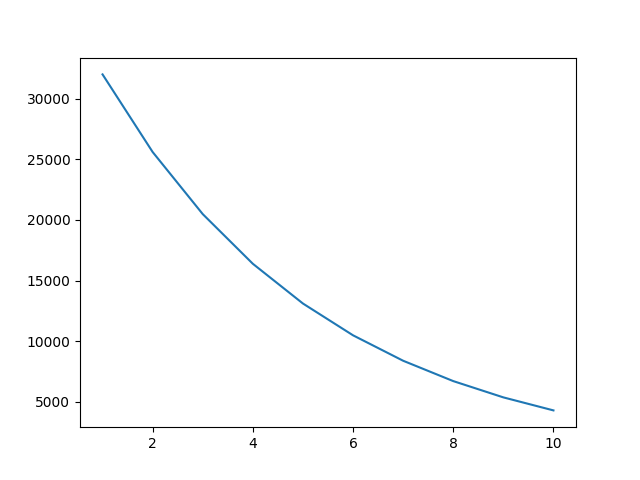
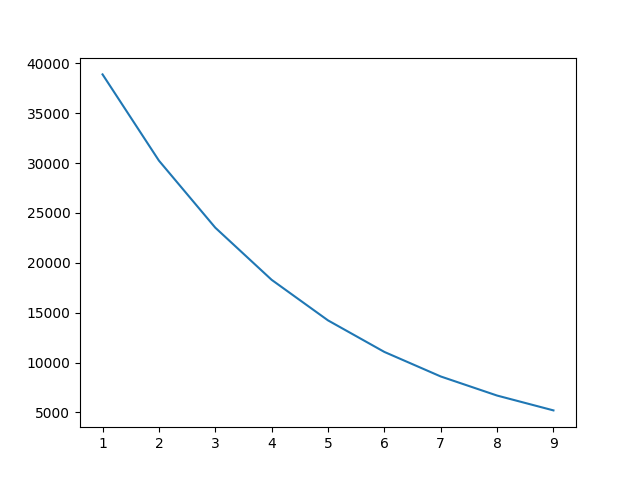
Adjust pie chart parameters to prevent display errors
Corrected the length mismatch between data labels and explode values in the pie chart generation code to resolve a ValueError.

Replit-Commit-Author: Agent
Replit-Commit-Session-Id: aa46d9ba-8c64-4c77-be68-8ced87318bd0
Replit-Commit-Checkpoint-Type: full_checkpoint
Replit-Commit-Event-Id: 0d8cd586-5368-4364-bc0d-1ad6b9fb9b34
Replit-Helium-Checkpoint-Created: true

diff --git a/main.py b/main.py
@@ -1,158 +1,203 @@
-import wmi
-import time
-import logging
+# 1задание
+# import os
+# my_secret = os.environ['Secret_1']
+# print(my_secret)
 
-logging.basicConfig(
-    level=logging.INFO,
-    format='%(asctime)s - %(levelname)s - %(message)s',
-    handlers=[
-        logging.FileHandler('usb_monitor.log', encoding='utf-8'),
-        logging.StreamHandler()
-    ]
+# вывод ключей, работал с Вотинцевой А.С.
+# import os
+
+# Secret1_Votintseva = os.environ["Secret1_Votintseva"]
+# print(Secret1_Votintseva)
+
+# import os
+
+# Secret2_Votintseva = os.environ["Secret2_Votintseva"]
+# print(Secret2_Votintseva)
+
+# import os
+
+# Secret3_Votintseva = os.environ["Secret3_Votintseva"]
+# print(Secret3_Votintseva)
+
+
+# Общее задание, вариант 4, делал с Вотинцевой, проверяла Лысенкова (всё корректно, оценка 5)
+from sympy import *
+
+k, T, C, L = symbols("k T C L")
+C_ost = 50000
+Am_lst = []
+C_ost_lst = []
+for i in range(9):
+    Am = (C - L) / T
+    C_ost -= Am.subs({C: 50000, T: 9, L: 0})
+    Am_lst.append(round(Am.subs({C: 50000, T: 9, L: 0}), 2))
+    C_ost_lst.append(round(C_ost, 2))
+print("Am_lst:", Am_lst)
+print("C_ost_lst", C_ost_lst)
+
+# 2способ
+Aj = 0
+C_ost = 50000  # Что это означает? - Это объявление переменной начальной стоимости (Ответ дала Вотинцева А.С.) /Проверил Николаев И.Д., 5/5/
+Am_lst_2 = []
+C_ost_lst_2 = []
+for i in range(9):
+    Am = k * 1 / T * (C - Aj)
+    C_ost -= Am.subs({C: 50000, T: 9, k: 2})
+    Am_lst_2.append(round(Am.subs({C: 50000, T: 9, k: 2}), 2))
+    Aj += Am
+    C_ost_lst_2.append(round(C_ost, 2))
+print("Am_lst_2:", Am_lst_2)
+print("C_ost_lst_2", C_ost_lst_2)
+
+
+# Таблица
+import pandas as pd
+
+Y = range(
+    1, 11
+)  # Что это означает? - Это объявление переменной, которая будет содержать список чисел от 1 до 10 (Ответ дала Вотинцева А.С.) /Проверил Николаев И.Д., 5/5/ /
+table1 = list(zip(Y, C_ost_lst, Am_lst))
+table2 = list(zip(Y, C_ost_lst_2, Am_lst_2))
+tfame = pd.DataFrame(table1, columns=["Y", "C_ost_lst", "Am_lst"])
+tfame2 = pd.DataFrame(table2, columns=["Y", "C_ost_lst_2", "Am_lst_2"])
+print(tfame)
+print(tfame2)
+
+# Визуализация
+import numpy as np
+import matplotlib.pyplot as plt
+
+plt.figure()
+plt.plot(tfame["Y"], tfame["C_ost_lst"], label="Am")
+plt.savefig(
+    "chart7.png"
+)  # Что это означает? - Это сохранение графика в файл (Ответ дала Вотинцева А.С.) /Проверил Николаев И.Д., 5/5/
+plt.figure()
+plt.plot(tfame2["Y"], tfame2["C_ost_lst_2"], label="Am_2")
+plt.savefig("chart8.png")
+
+# Круговые диаграммы 1
+vals = Am_lst
+labels = [str(x) for x in range(1, 10)]
+explode = (0.1, 0.1, 0.1, 0.1, 0.1, 0.1, 0.1, 0.1, 0.1)
+fig, ax = plt.subplots()
+ax.pie(
+    vals,
+    labels=labels,
+    explode=explode,
+    autopct="%1.1f%%",
+    shadow=True,
+    wedgeprops={"lw": 1, "ls": "--", "edgecolor": "k"},
+    rotatelabels=True,
 )
+ax.axis("equal")
+plt.savefig("chart9.png")
+# Круговые диаграммы 2
+vals = Am_lst_2
+labels = [str(x) for x in range(1, 11)]
+explode = (0.1, 0.1, 0.1, 0.1, 0.1, 0.1, 0.1, 0.1, 0.1, 0.1)
+fig, ax = plt.subplots()
+ax.pie(
+    vals,
+    labels=labels,
+    explode=explode,
+    autopct="%1.1f%%",
+    shadow=True,
+    wedgeprops={"lw": 1, "ls": "--", "edgecolor": "k"},
+    rotatelabels=True,
+)
+ax.axis("equal")
+plt.savefig("chart10.png")
+
+# Гистограммы
+table1 = list(zip(Y, Am_lst))
+table2 = list(zip(Y, Am_lst_2))
+tfame = pd.DataFrame(table1, columns=["Y", "Am_lst"])
+tfame2 = pd.DataFrame(table2, columns=["Y", "Am_lst_2"])
+
+plt.figure()
+plt.bar(tfame["Y"], tfame["Am_lst"])
+plt.savefig("chart11.png")
+
+plt.figure()
+plt.bar(tfame2["Y"], tfame2["Am_lst_2"])
+plt.savefig("chart12.png")
+
+# Общее задание, вариант 4, делал с Вотинцевой, проверяла Лысенкова (всё корректно, оценка 5)
+# Задание 5 Shell
+# Задание 6: Поменял исходные данные в соответствии с вариантом 2 ЛР2
+
+#Индивидуальное задание к ЛР3
+
+#Задает список подключаемых устройств
+devices = [['A4Tech Mouse',r'USB\VID_09DA&PID_79A1\6&104FED9E&0&9'],['Kingston DataTraveler 3.0',r'USB\VID_0951&PID_1666\0019E06B4A6C'],['Logitech Wireless Mouse M185',r'USB\VID_046D&PID_C52B\5&2A8B3C&0&1'],['SanDisk Ultra USB 3.0',r'USB\VID_0781&PID_5583\4C530001230'],['Samsung USB Drive',r'USB\VID_090C&PID_1000\100000000000']]
+
+#Задает список разрешенных устройств
+allowed_list = ['A4Tech Mouse',r'USB\VID_09DA&PID_79A1\6&104FED9E&0&9','Logitech Wireless Mouse M185',r'USB\VID_046D&PID_C52B\5&2A8B3C&0&1']
+
+# Задает три списка: с именами и ID разрешенных к подключению устройств, а также общий список
+
+naimen = []
+ID = []
+razresheno = [[],[]]
+naimen_ne_razresheno = []
+ID_ne_razresheno = []
 
 
-class USBMonitorWindows:
-    def __init__(self, allowed_devices):
-        """
-        allowed_devices: список разрешенных идентификаторов (VID/PID или части DeviceID)
-        """
-        self.allowed_devices = set(allowed_devices)
-        self.wmi_conn = wmi.WMI()
-        self.known_devices = set()
+#Функция для проверки подключаемых устройств
+def analyze(devices,alowwed_list):
+    for device in devices:
+        if device[0] in allowed_list:
+            naimen.append(device[0])
+        else :
+            naimen_ne_razresheno.append(device[0])
+    for device in devices:
+        if device[1] in allowed_list:
+            ID.append(device[1])
+        else :
+            ID_ne_razresheno.append(device[1])
+    for i in range(len(naimen)):
+        razresheno[i].append(naimen[i])
+        razresheno[i].append(ID[i])
+        print(razresheno)
+print(analyze(devices,allowed_list))
 
-    def get_normalized_id(self, device_id):
-        """
-        Нормализует DeviceID, удаляя динамическую часть
-        Оставляет только VID/PID и постоянные идентификаторы
-        """
-        # Разделяем DeviceID по обратному слешу
-        parts = device_id.split('\\')
-        if len(parts) >= 2:
-            # Берем первую часть (USB) и VID/PID
-            # Например: USB\VID_09DA&PID_79A1
-            return f"{parts[0]}\\{parts[1]}"
-        return device_id
+# Табличное представление
+import pandas as pd
+Y = range(1, 11)
+table1 = list(zip(Y, naimen, ID))
+table2 = list(zip(Y, naimen_ne_razresheno, ID_ne_razresheno))
+tfame = pd.DataFrame(table1, columns=["Y", "Naimen", "ID"])
+tfame2 = pd.DataFrame(table2, columns=["Y", "Naimen_ne_razresheno", "ID_ne_razresheno"])
+print(tfame)
+print(tfame2)
 
-    def get_current_usb_devices(self):
-        """
-        Получение списка текущих USB устройств
-        """
-        devices = {}
-        for usb in self.wmi_conn.Win32_USBHub():
-            if usb.DeviceID and usb.Name:
-                # Получаем нормализованный ID
-                normalized_id = self.get_normalized_id(usb.DeviceID)
+# Визуализация
+import numpy as np
+import matplotlib.pyplot as plt
+ID1 = [len(naimen),len(naimen_ne_razresheno)]
 
-                devices[usb.DeviceID] = {
-                    'name': usb.Name,
-                    'device_id': usb.DeviceID,
-                    'normalized_id': normalized_id,
-                    'description': usb.Description or ''
-                }
-        return devices
+# Круговые диаграммы 1
+vals = ID1
+labels = [str(x) for x in range(1, 3)]
+explode = (0.1, 0.1)
+fig, ax = plt.subplots()
+ax.pie(
+    vals,
+    labels=labels,
+    explode=explode,
+    autopct="%1.1f%%",
+    shadow=True,
+    wedgeprops={"lw": 1, "ls": "--", "edgecolor": "k"},
+    rotatelabels=True,
+)
+ax.axis("equal")
+plt.savefig("chart13.png")
+idf = ['Разрешено','Запрещено']
+# Гистограммы
+table1 = list(zip(idf, ID1))
+tfame = pd.DataFrame(table1, columns=["idf", "ID1"])
 
-    def is_allowed(self, device_id, normalized_id, device_name):
-        """
-        Проверка, разрешено ли устройство
-        Сравниваем по нормализованному ID и имени
-        """
-        # Проверяем по нормализованному ID (VID/PID)
-        if normalized_id in self.allowed_devices:
-            return True, f"Device match by VID/PID: {normalized_id}"
-
-        # Проверяем, содержится ли разрешенный ID в нормализованном
-        for allowed in self.allowed_devices:
-            if allowed in normalized_id:
-                return True, f"Device match by partial VID/PID: {allowed}"
-
-        # Проверяем по имени устройства
-        device_name_lower = device_name.lower()
-        for allowed in self.allowed_devices:
-            if allowed.lower() in device_name_lower:
-                return True, f"Name match: {allowed}"
-
-        return False, None
-
-    def start_monitoring(self):
-        """
-        Запуск мониторинга USB устройств
-        """
-        logging.info("=" * 50)
-        logging.info("USB мониторинг запущен (Windows)")
-        logging.info(f"Разрешенные устройства: {len(self.allowed_devices)} записей")
-        logging.info("=" * 50)
-
-        # Выводим разрешенные ID
-        for i, dev in enumerate(list(self.allowed_devices)[:5]):
-            logging.info(f"  Разрешено {i + 1}: {dev}")
-        if len(self.allowed_devices) > 5:
-            logging.info(f"  ... и еще {len(self.allowed_devices) - 5}")
-
-        # Получаем начальный список устройств
-        current_devices = self.get_current_usb_devices()
-        self.known_devices = set(current_devices.keys())
-
-        logging.info(f"Обнаружено {len(self.known_devices)} USB устройств")
-
-        # Выводим текущие устройства для отладки
-        for dev_id, dev_info in current_devices.items():
-            logging.info(f"  Текущее: {dev_info['name']} -> {dev_info['normalized_id']}")
-
-        try:
-            while True:
-                current_devices = self.get_current_usb_devices()
-                current_ids = set(current_devices.keys())
-
-                # Проверяем новые устройства
-                new_devices = current_ids - self.known_devices
-
-                for dev_id in new_devices:
-                    device = current_devices[dev_id]
-                    device_name = device['name']
-                    normalized_id = device['normalized_id']
-
-                    allowed, reason = self.is_allowed(dev_id, normalized_id, device_name)
-
-                    if allowed:
-                        logging.info(f"[+] РАЗРЕШЕНО: {device_name}")
-                        logging.info(f"    DeviceID: {dev_id}")
-                        logging.info(f"    Normalized ID: {normalized_id}")
-                        logging.info(f"    Причина: {reason}")
-                    else:
-                        logging.warning(f"[!] НЕИЗВЕСТНОЕ УСТРОЙСТВО: {device_name}")
-                        logging.warning(f"    DeviceID: {dev_id}")
-                        logging.warning(f"    Normalized ID: {normalized_id}")
-
-                        # Здесь можно добавить дополнительные действия
-                        # Например, отправить уведомление или запустить скрипт блокировки
-
-                # Проверяем отключенные устройства
-                removed_devices = self.known_devices - current_ids
-                for dev_id in removed_devices:
-                    logging.info(f"[-] Устройство отключено: {dev_id}")
-
-                self.known_devices = current_ids
-                time.sleep(2)  # Проверяем каждые 2 секунды
-
-        except KeyboardInterrupt:
-            logging.info("Мониторинг остановлен пользователем")
-        except Exception as e:
-            logging.error(f"Ошибка: {e}", exc_info=True)
-
-
-def main():
-    # Список разрешенных устройств - используем только VID/PID часть
-    allowed = [
-        "USB\VID_09DA&PID_79A1",  # Постоянная часть DeviceID
-        # Можно добавить другие устройства:
-        # "USB\VID_046D&PID_C52B",  # Logitech
-        # "USB\VID_0781&PID_5583",  # SanDisk
-    ]
-
-    monitor = USBMonitorWindows(allowed)
-    monitor.start_monitoring()
-
-
-if __name__ == "__main__":
-    main()
+plt.figure()
+plt.bar(tfame["idf"], tfame["ID1"])
+plt.savefig("chart14.png")
